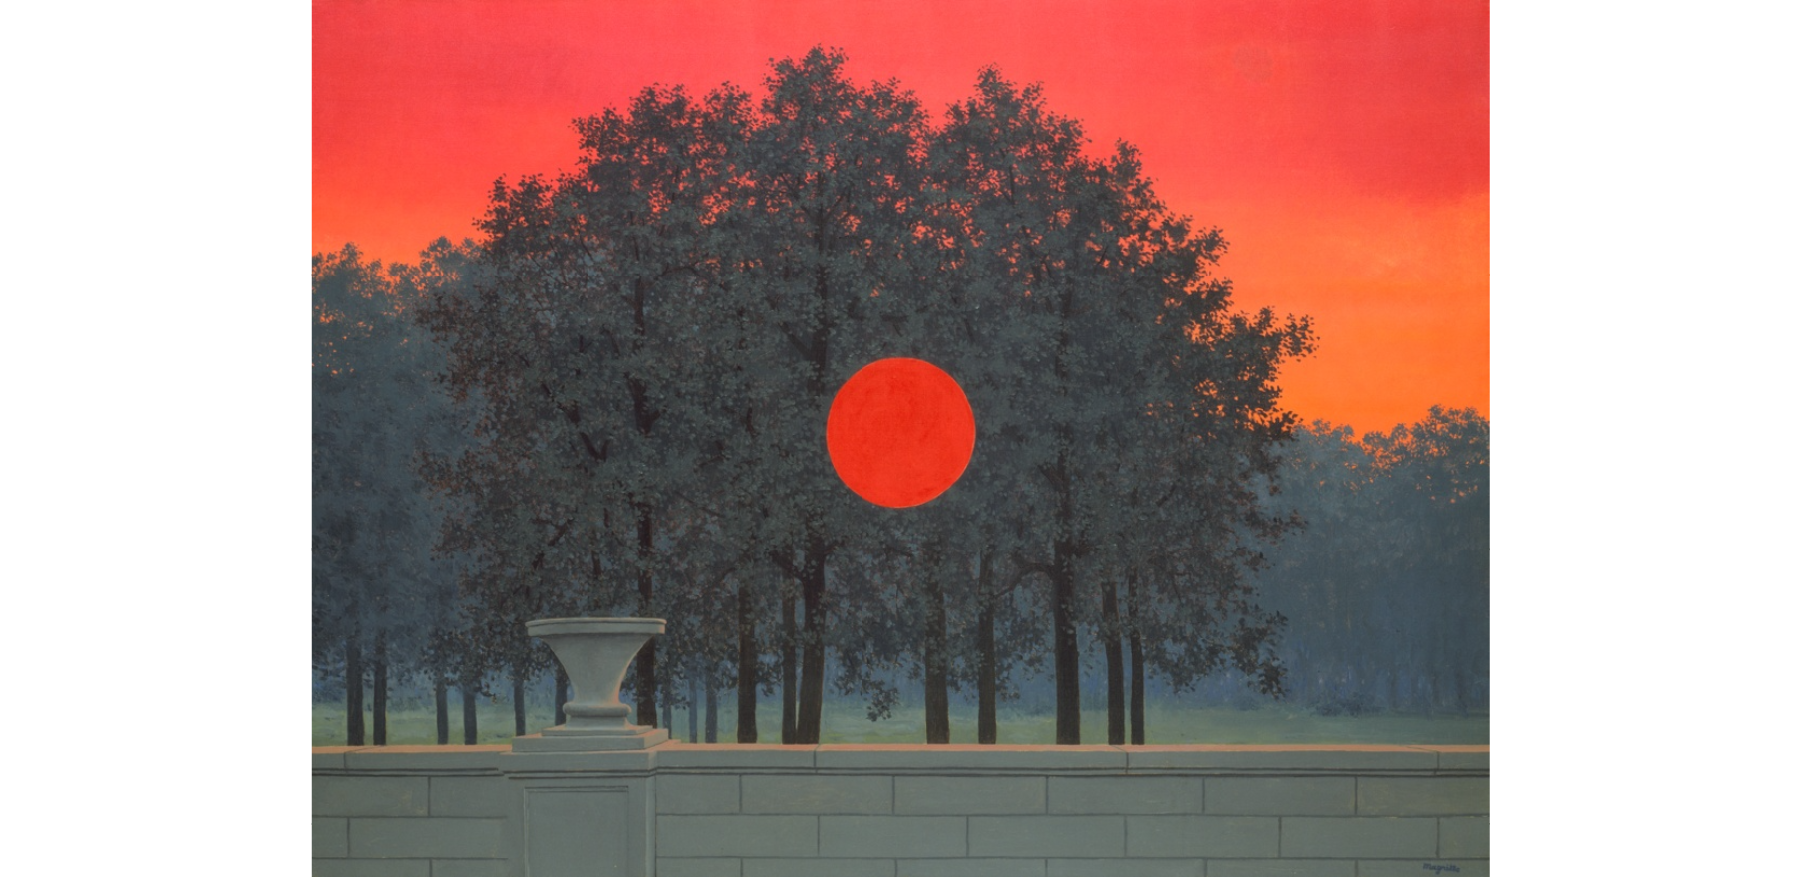
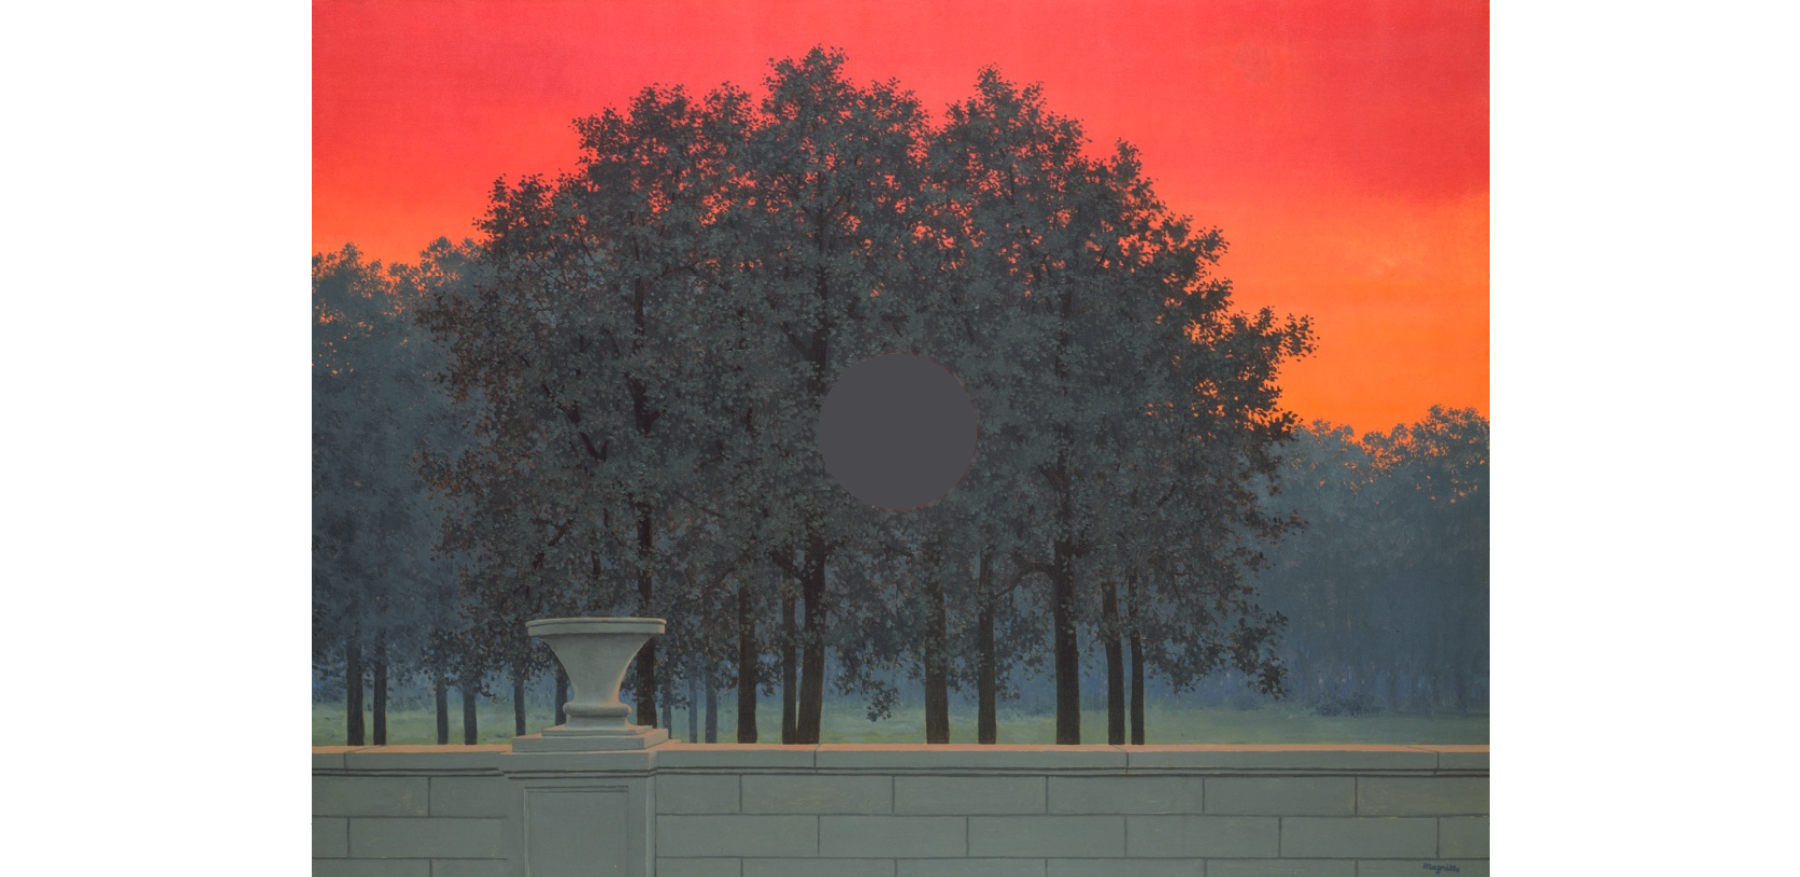
committing before deleting bootstrap, plz dont break@

Changed region(s): [[0.4356, 0.4002, 0.56, 0.5849]]

diff --git a/app/javascript/react/src/components/clickSun/SunClickGame.css b/app/javascript/react/src/components/clickSun/SunClickGame.css
@@ -1,6 +1,14 @@
 .sun-click-game {
+  all: unset;
+  border: 10px solid black;
+  padding: 10px;
   background-size: cover;
   background-position: center;
-  width: 100%;
+  display: flex; /* Use flexbox for layout */
+  flex-direction: column; /* Arrange children vertically */
+  justify-content: center; /* Optional: center items vertically */
+  align-items: center; /* Optional: center items horizontally */
+  margin: 0;
+  width: 91vw;
   height: 100vh;
 }

diff --git a/app/javascript/react/src/components/clickSun/Sun.jsx b/app/javascript/react/src/components/clickSun/Sun.jsx
@@ -10,7 +10,7 @@ const Sun = () => {
       animate={{ scale: isClicked ? 1.5 : 1 }}
       onClick={() => setIsClicked(!isClicked)}
       style={{
-        background: 'red',
+        background: '#eb311b',
         borderRadius: '50%',
         width: 100,
         height: 100,

diff --git a/app/javascript/react/src/components/clickSun/SunClickGame.jsx b/app/javascript/react/src/components/clickSun/SunClickGame.jsx
@@ -17,6 +17,7 @@ const SunClickGame = () => {
         backgroundImage: `url(${backgroundImage})`,
       }}
     >
+      <Sun />
       <h1>playyyy!</h1>
     </div>
   );
